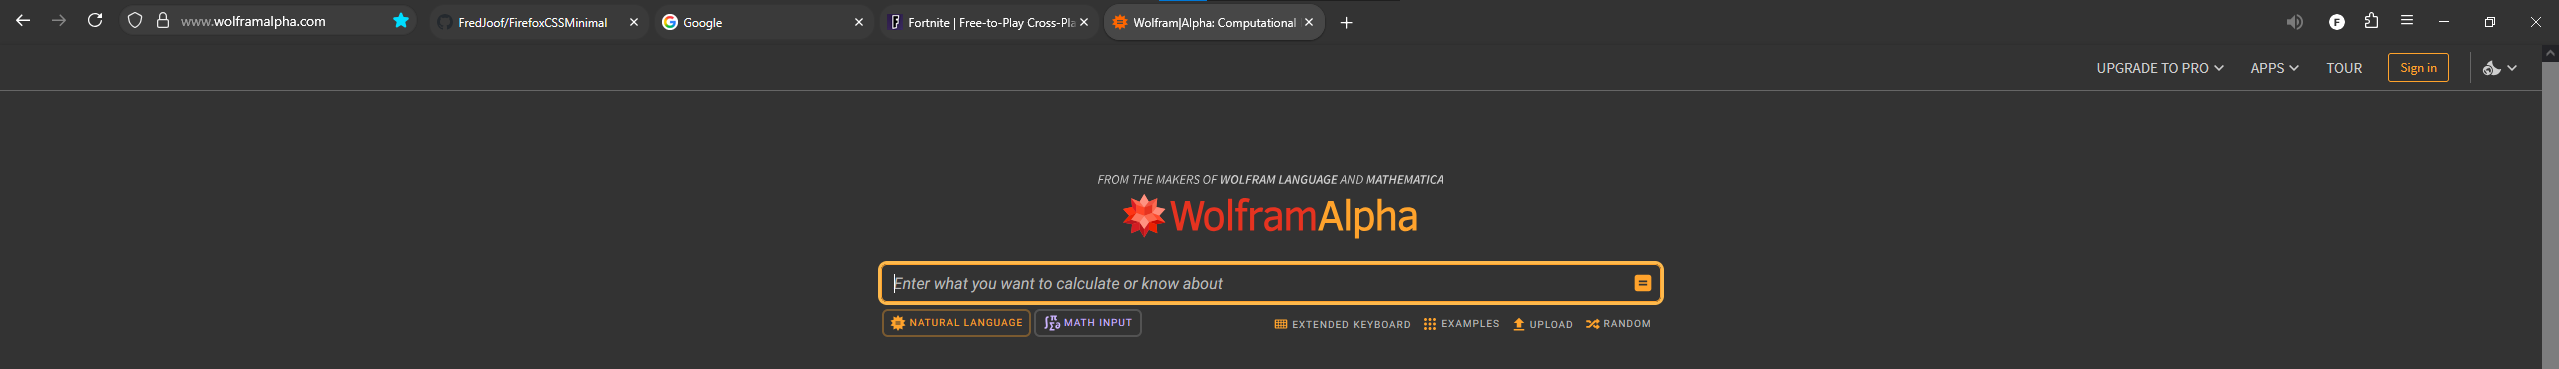
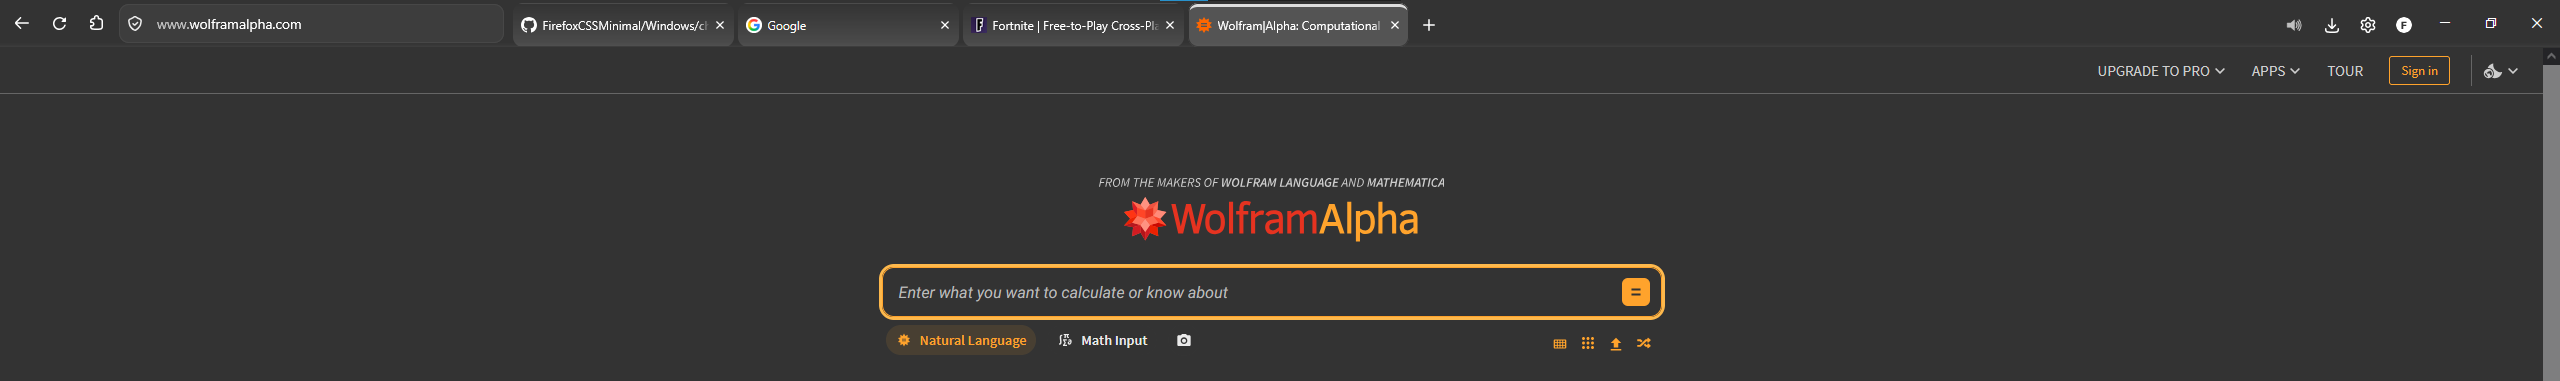
Updated to be compatible with FireFox changes

diff --git a/Windows/chrome/userChrome.css b/Windows/chrome/userChrome.css
@@ -1,88 +1,326 @@
+/* ==========================================================================
+   userChrome.css
+   Single-row Firefox layout: tabs on the left, nav-bar on the right.
+   Goes in: <profile folder>/chrome/userChrome.css
+   Requires: toolkit.legacyUserProfileCustomizations.stylesheets = true
+             (about:config)
+   Tip: to find selectors after an update, open the Browser Toolbox
+        (Ctrl+Shift+Alt+I) and use the inspector's element picker.
+   ========================================================================== */
+
+
+/* ==========================================================================
+   1. Variables (the main things you will want to adjust)
+   ========================================================================== */
+
 :root {
-  /* Set preferred size of url bar */
-  --url-max-width: 300px;
-  --url-max-width-focused: 600px;
+    /* Width of the nav-bar (URL bar area) in the single-row layout.
+       Units are required, otherwise the width rules below are ignored. */
+    --navbarWidth: 510px;
 
-  /* Change depending on size of ui elements present */
-  --navbar-elements-left: 128px;
-  --navbar-elements-right: 64px;
+    /* --- Active tab line (top edge of the selected tab) ---
+       The colour is derived from the tab's own text colour (currentColor).
+       Themes and colour-changing extensions always keep text readable against
+       their background, so the line always contrasts, whatever the site colour.
+       --active-tab-line-strength: 100% = same as text, lower = more subtle. */
+    --active-tab-line-strength: 80%;
+    --active-tab-line-color: color-mix(in srgb, currentColor var(--active-tab-line-strength), transparent);
+    --active-tab-line-height: 4px;
 
-  
-  --navbar-width-left: calc(var(--url-max-width) + var(--navbar-elements-left));
-  --navbar-width-left-focused: calc(var(--url-max-width-focused) + var(--navbar-elements-left));
-  --navbar-up-offset: -44px;
-  --navbar-bot: 4px; 
-  --windows-buttons-width: 128px;
-  
-  --tab-border-radius: 16px !important;
-  --toolbar-bgcolor: rgba(255, 255, 255, 0) !important;
+    /* Alternatives for --active-tab-line-color (use one instead of the above):
+         fixed colour:   rgb(128, 128, 128)
+         theme accent:   var(--lwt-accent-color)
+         always white:   #ffffff                                          */
+
+    /* --- Tab background colours ---
+       "transparent" keeps the flat look. Translucent mixes with currentColor
+       adapt to the theme, e.g.:
+         color-mix(in srgb, currentColor 12%, transparent)
+       Solid colours work too, but may clash when an extension recolours
+       the UI. Unselected tabs keep Firefox's own hover effect. */
+    --selected-tab-bg: color-mix(in srgb, var(--active-tab-line-color) 20%, transparent);
+
+    /* Unselected tabs fade from --unselected-tab-bg at the bottom to
+       --unselected-tab-bg-top at the top. To turn the fade off, set
+       --unselected-tab-bg-top to the same value as --unselected-tab-bg.
+       Direction: "to top", "to bottom", "to right", "to left". */
+    --unselected-tab-bg: color-mix(in srgb, var(--active-tab-line-color) 15%, transparent);
+    --unselected-tab-bg-top: transparent;
+    --unselected-tab-gradient-direction: to top;
+
+    /* Colour and strength of the shadow under the toolbox */
+    --toolbox-shadow-color: rgba(128, 128, 128, 0.3);
+
+    /* Corner radius of the URL bar and its elements (dropdown, buttons,
+       icons). 0px = rectangular, 4px = slightly rounded, 999px = pill. */
+    --url-bar-radius: 10px;
+
+    /* Firefox's own URL bar radius variables, pointed at ours */
+    --urlbar-container-radius: var(--url-bar-radius) !important;
+    --urlbar-inner-radius: var(--url-bar-radius) !important;
+
+    /* Flat, transparent look */
+    --tab-border-radius: 10px !important;
+    --toolbar-bgcolor: rgba(255, 255, 255, 0) !important;
+    --tab-selected-shadow: rgba(255, 255, 255, 0) !important;
+    --tab-selected-bgcolor: rgba(255, 255, 255, 0) !important;
+    --tab-selected-outline-color: rgba(255, 255, 255, 0) !important;
+    --toolbarbutton-border-radius: 0px !important;
+    --urlbar-box-bgcolor: rgba(255, 255, 255, 0.05) !important;
+
+    /* Removes the gap above tabs so they reach the top edge of the screen
+       (restores the click area at the very top). Set to e.g. 2px to bring
+       the gap back. */
+    --tab-block-margin: 0px !important;
+    
+    /* Toolbar background color, make transparent for consistent look when using "Adaptive Tab Bar Color" extension */
+    --toolbar-background-color: tranparent !important;
 }
 
-#nav-bar {
-  margin: var(--navbar-up-offset) var(--windows-buttons-width) var(--navbar-bot) 0px !important;
-  pointer-events: none !important;
-}
-body:has(#urlbar[open]) #nav-bar {
-  margin: var(--navbar-up-offset) var(--windows-buttons-width) var(--navbar-bot) 0px !important;
+
+/* ==========================================================================
+   2. Single-row layout (tabs + nav-bar on one line)
+   Only applies when the window is wide enough. Media queries cannot use
+   variables, so change the 1400px breakpoint here directly if needed.
+   ========================================================================== */
+
+@media (min-width: 1400px) {
+    #navigator-toolbox {
+        display: flex;
+        flex-direction: row-reverse;
+        flex-wrap: wrap;
+    }
+
+    /* URL bar / nav-bar (ends up on the right) */
+    #nav-bar {
+        order: 1;
+        width: var(--navbarWidth);
+    }
+
+    /* Tab bar (fills the remaining width on the left) */
+    #titlebar {
+        order: 2;
+        width: calc(100vw - var(--navbarWidth) - 1px);
+    }
+
+    /* Bookmarks bar (full width underneath) */
+    #PersonalToolbar {
+        order: 3;
+        width: 100%;
+    }
+
+    /* Fix the URL bar sometimes being misaligned vertically */
+    :root[uidensity="compact"] #urlbar {
+        --urlbar-toolbar-height: 39.60px !important;
+    }
+
+    :root[uidensity="touch"] #urlbar {
+        --urlbar-toolbar-height: 49.00px !important;
+    }
 }
 
-#nav-bar toolbarbutton, #nav-bar .urlbar-icon, #urlbar {
-  pointer-events: auto !important;
-}
-.panel-view,
-.panel-arrowcontent,
-#customizationui-widget-panel,
-.panel-subview-body {
-  pointer-events: auto !important;
-}
 
+/* ==========================================================================
+   3. Tabs
+   ========================================================================== */
 
-
-
-#TabsToolbar{
-  margin-left: var(--navbar-width-left) !important;
-}
-body:has(#urlbar[open]) #TabsToolbar {
-  margin-left: var(--navbar-width-left-focused) !important;
+/* Let tabs use the full height so the top edge of the screen is clickable */
+.tabbrowser-tab {
+    padding-block: 0 !important;
 }
 
+.tab-background {
+    margin-block: 0 !important;
+}
+
+/* Tab background colours */
+.tabbrowser-tab[selected] .tab-background,
+.tabbrowser-tab[multiselected] .tab-background {
+    background: var(--selected-tab-bg) !important;
+}
+
+.tabbrowser-tab:not([selected]):not([multiselected]):not(:hover) .tab-background {
+    background: linear-gradient(
+        var(--unselected-tab-gradient-direction),
+        var(--unselected-tab-bg),
+        var(--unselected-tab-bg-top)
+    ) !important;
+}
+
+/* Line at the top of the active tab (also for multi-selected tabs).
+   Applied to .tab-background because that is the visible part of the tab. */
+.tabbrowser-tab[selected] .tab-background,
+.tabbrowser-tab[multiselected] .tab-background {
+    border-top: var(--active-tab-line-height) solid var(--active-tab-line-color) !important;
+}
+
+/* Remove the gap after pinned tabs */
+#tabbrowser-tabs[haspinnedtabs]:not([positionpinnedtabs])
+> #tabbrowser-arrowscrollbox
+> .tabbrowser-tab[first-visible-unpinned-tab] {
+    margin-inline-start: 0 !important;
+}
+
+/* Remove the empty space to the left and right of the tab strip */
+.titlebar-spacer {
+    display: none !important;
+}
+
+
+/* ==========================================================================
+   4. Toolbox shadow
+   Drawn as an overlay on top of the toolbars. A normal inset box-shadow is
+   painted underneath child elements, so the nav-bar background would hide it.
+   ========================================================================== */
+
+#navigator-toolbox {
+    position: relative;
+    box-shadow: none !important;
+    border-bottom: none !important;
+}
+
+#navigator-toolbox::after {
+    content: "";
+    position: absolute;
+    inset: 0;
+    z-index: 1;
+    pointer-events: none; /* clicks pass straight through */
+    box-shadow: 0 -16px 4px -16px var(--toolbox-shadow-color) inset;
+}
+
+
+/* ==========================================================================
+   5. Simplifying the interface
+   ========================================================================== */
+
+/* Auto-hide the back/forward buttons when they are disabled */
+#back-button,
+#forward-button {
+    transform: scale(1, 1) !important;
+    transition: margin-left 150ms var(--animation-easing-function),
+                opacity 250ms var(--animation-easing-function),
+                transform 350ms var(--animation-easing-function) !important;
+}
+
+#back-button[disabled="true"],
+#forward-button[disabled="true"] {
+    margin-left: -34px !important;
+    opacity: 0 !important;
+    transform: scale(0.8, 0.8) !important;
+    pointer-events: none !important;
+}
+
+/* Hide UI elements. Delete a line (mind the commas) to bring it back. */
+#identity-box,                                  /* Site information */
+#tracking-protection-icon-container,            /* Shield icon */
+#page-action-buttons > :not(#urlbar-zoom-button), /* All URL bar icons except zoom level.
+                                                   To keep the bookmark star too, use:
+                                                   :not(#urlbar-zoom-button, #star-button-box) */
+#urlbar-go-button,                              /* Search / go button */
+#alltabs-button {                               /* "List all tabs" menu */
+    display: none !important;
+}
+
+/* Optional: also hide the window buttons (minimise / maximise / close).
+   Uncomment to use.
+.titlebar-buttonbox-container {
+    display: none !important;
+}
+*/
+
+/* Hide the menu bar */
+#toolbar-menubar {
+    display: none;
+}
+
+/* Shrink the hamburger menu button to almost nothing */
+#PanelUI-menu-button {
+    padding: 0px !important;
+}
+
+#PanelUI-menu-button .toolbarbutton-icon {
+    width: 1px !important;
+}
+
+#PanelUI-menu-button .toolbarbutton-badge-stack {
+    padding: 0px !important;
+}
+
+/* Fix the URL bar overlapping neighbouring elements */
 #urlbar-container {
-  max-width: var(--url-max-width);
-}
-body:has(#urlbar[open]) #urlbar-container{
-  max-width: var(--url-max-width-focused) !important;
+    min-width: initial !important;
 }
 
-
-
-.titlebar-spacer[type="post-tabs"] {
-  width: var(--navbar-elements-right) !important;
-}
-
-.titlebar-spacer[type="pre-tabs"] {
-  display: none !important;
-}
-
-#unified-extensions-button{
-  margin-left: auto !important;
-  margin-right: 0px !important;
+/* Small padding around the URL text */
+.urlbar-input-box {
+    padding: 0.25em !important;
 }
 
 
-.tabbrowser-tab:not([selected]) .tab-background {
-  background-color: rgba(120, 120, 120, 0.10) !important;
+/* ==========================================================================
+   5b. URL bar shape
+   All radii are controlled by --url-bar-radius in section 1.
+   ========================================================================== */
+
+/* Firefox defines its radius variables on #urlbar itself, which overrides
+   anything set on :root, so they are set again here. */
+#urlbar,
+#urlbar-container {
+    --urlbar-container-radius: var(--url-bar-radius) !important;
+    --urlbar-inner-radius: var(--url-bar-radius) !important;
+    --toolbarbutton-border-radius: var(--url-bar-radius) !important;
 }
 
-.tabbrowser-tab .tab-background {
-  border-radius: 16px !important;
-  border: 1px solid rgba(0, 0, 0, 0.08) !important;
-  height: 32px !important;
+/* The search engine button (Google icon) is a <moz-button> custom element.
+   Its rounded shape lives inside a shadow root, which normal selectors cannot
+   reach, so it is reached through its exposed part and its own variables. */
+.searchmode-switcher {
+    --button-border-radius: var(--url-bar-radius) !important;
+    --border-radius-small: var(--url-bar-radius) !important;
+    --border-radius-circle: var(--url-bar-radius) !important;
 }
 
-#urlbar-background,#urlbar {
-  border-radius: 16px !important;
-  border: 1px solid rgba(0, 0, 0, 0.08) !important;
+.searchmode-switcher::part(button) {
+    border-radius: var(--url-bar-radius) !important;
 }
-#urlbar-searchmode-switcher, #identity-icon-box, #tracking-protection-icon-container {
-  border-radius: 16px !important;
+
+/* The bar itself, plus everything inside it (background, search-mode
+   switcher, icons, buttons and the results dropdown). Using a wildcard means
+   this keeps working when Firefox renames inner elements. */
+#urlbar,
+#urlbar *,
+#urlbar-container,
+#urlbar-zoom-button,
+#searchmode-switcher,
+#searchmode-switcher-chicklet {
+    border-radius: var(--url-bar-radius) !important;
 }
+
+
+/* ==========================================================================
+   6. Optional: solid accent colour for titlebar / nav-bar / URL bar
+   Off by default. To enable, remove the comment markers around the block.
+
+:root {
+    --accent-color: #1c1b22;
+}
+
+@media (prefers-color-scheme: light) {
+    :root {
+        --accent-color: #FAFAFC;
+    }
+}
+
+#titlebar,
+toolbar#nav-bar,
+#urlbar,
+#urlbar-background {
+    background: var(--accent-color) !important;
+    box-shadow: none !important;
+}
+
+#urlbar-background,
+#urlbar-input-container {
+    border: none !important;
+}
+   ========================================================================== */
